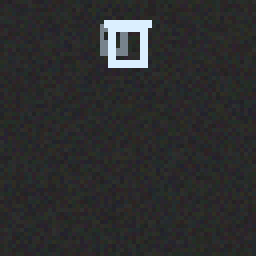
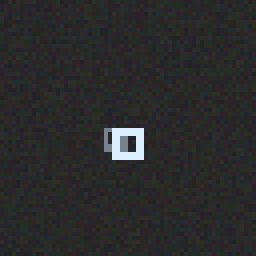
Anakin: camera-truth fixes — tilt sign (20deg UP per spec) + VFoV band training overlay (Day 129)
render.py trained the camera 20deg DOWN; vq1_spec.txt:325 + VQ1_READINESS 3.7 + Elodin's
harness all say 20deg UP — the trained view was 40deg off the official camera (recon-caught).
Sign flipped, self-check inverted (level gate now projects BELOW center), samples regenerated.

PATCH 5 (third_party, documented in PATCHES.md): anakin_band config overlay grays rows outside
[14:50] in the batched env, lockstep with dreamer_pilot.to_training_frame — trains through the
~59deg-VFoV competition camera (rehearsal: crop costs -68%, resample free).

launch_band_ft_detached.py: maneuver_band_ft fine-tune off best.pt (+256.28), both fixes,
4x500k steps, exam-condition eval. Running.

Changed region(s): [[0.375, 0.0625, 0.5938, 0.2812], [0.4062, 0.5, 0.5625, 0.625]]

diff --git a/Technical-Work/AIGrandPrix/anakin/sim/render.py b/Technical-Work/AIGrandPrix/anakin/sim/render.py
@@ -85,15 +85,18 @@ def _project(corners_world, cam_pos, cam_quat):
     qb = qconj[:, None, None, :].expand(N, corners_world.shape[1], 4, 4)
     rel_body = quat_rotate(qb, rel)            # [N,G,4,3] body frame (x fwd, y left, z up)
 
-    # camera down-tilt: rotate body points by -TILT about body-Y (left axis), i.e. R_y(-t).
-    # Verified by the __main__ visual test: a level gate dead-ahead then projects ABOVE
-    # image center, which is what a camera pitched 20deg DOWN must do (its optical axis
-    # points below a level-forward object, so that object sits high in the frame).
+    # camera UP-tilt: vq1_spec.txt:325 "The camera is tilted upwards by 20" (also
+    # VQ1_READINESS.md spec 3.7, and Elodin's harness: +20deg up — FPV convention).
+    # Day-129 fix: this previously rotated the OTHER way (down-tilt), i.e. the trained
+    # camera was 40deg off the official one. Verified by the __main__ visual test: a
+    # level gate dead-ahead now projects BELOW image center, which is what a camera
+    # pitched 20deg UP must do (its optical axis points above a level-forward object,
+    # so that object sits low in the frame).
     t = torch.tensor(TILT_DEG * torch.pi / 180.0, device=rel_body.device, dtype=rel_body.dtype)
     ct, st = torch.cos(t), torch.sin(t)
     bx, by, bz = rel_body.unbind(-1)
-    tx = ct * bx - st * bz
-    tz = st * bx + ct * bz
+    tx = ct * bx + st * bz
+    tz = -st * bx + ct * bz
     rel_tilt = torch.stack([tx, by, tz], dim=-1)
 
     # body(tilted) -> OpenCV optical: x_cam = -y, y_cam = -z, z_cam = x
@@ -211,13 +214,14 @@ if __name__ == "__main__":
     frame = render(s, gp, gf, cur)                                  # [1,64,64,3]
     print(f"frame shape={tuple(frame.shape)} dtype={frame.dtype} max={int(frame.max())}")
 
-    # gate-frame pixel stats + tilt-sign check (centroid of bright pixels should be ABOVE center)
+    # gate-frame pixel stats + tilt-sign check (centroid of bright pixels should be BELOW
+    # center: spec camera tilts UP 20deg, so a level gate sits low in the frame)
     bright_mask = (frame[0].float().mean(-1) > 150)
     ys, xs = torch.where(bright_mask)
     if ys.numel() > 0:
         cy_b = ys.float().mean().item()
         print(f"bright pixels={ys.numel()}  centroid_y={cy_b:.1f} (center={CY}); "
-              f"{'ABOVE center -> down-tilt sign OK' if cy_b < CY else 'BELOW -> FLIP TILT SIGN'}")
+              f"{'BELOW center -> up-tilt sign OK' if cy_b > CY else 'ABOVE -> FLIP TILT SIGN'}")
         # hollow-center check: the geometric center pixel should NOT be bright (it's the hole)
         print(f"center pixel bright? {bool(bright_mask[IMG//2, IMG//2])} (expect False — fly-through hole)")
     else:

diff --git a/Technical-Work/AIGrandPrix/anakin/launch_band_ft_detached.py b/Technical-Work/AIGrandPrix/anakin/launch_band_ft_detached.py
@@ -1,0 +1,59 @@
+"""DETACHED launch: exam-camera fine-tune off best.pt (+256.28, maneuver_scale_2).
+
+Two Day-129 camera-truth fixes trained in together:
+  1. VFoV band: the competition feed's ~59deg vertical FoV costs the 90deg-trained
+     pilot -68% return (translation_rehearsal). anakin_band overlay grays rows outside
+     [14:50] (lockstep with integration/dreamer_pilot.to_training_frame).
+  2. Tilt sign: vq1_spec.txt:325 says the camera tilts UP 20deg; render.py had trained
+     DOWN 20deg (40deg total error, found in Day-129 recon, fixed in sim/render.py).
+     The fine-tune relearns the official view direction off best.pt's warm dynamics.
+
+Seeds a FRESH logdir (maneuver_band_ft) with best.pt as latest.pt — the scale-2 run's
+artifacts are never touched; carry-forward's best-protection then guards the fine-tune
+itself. 4 x 500k = 2M steps; per-batch eval through the SAME masked obs, so the
+carry_state returns measure exam-condition performance directly.
+
+Run: .venv/Scripts/python.exe launch_band_ft_detached.py   (returns immediately)
+"""
+import os
+import shutil
+import subprocess
+import sys
+
+ANAKIN = os.path.dirname(os.path.abspath(__file__))
+PY = os.path.join(ANAKIN, ".venv", "Scripts", "python.exe")
+DREAMER = os.path.join(ANAKIN, "third_party", "dreamerv3-torch")
+SRC_BEST = os.path.join(DREAMER, "logdir", "maneuver_scale_2", "best.pt")
+LOGDIR = os.path.join(DREAMER, "logdir", "maneuver_band_ft")
+LOG = os.path.join(DREAMER, "logdir", "band_ft_orchestrator.log")
+
+os.makedirs(LOGDIR, exist_ok=True)
+latest = os.path.join(LOGDIR, "latest.pt")
+if not os.path.exists(latest):
+    if not os.path.exists(SRC_BEST):
+        sys.exit(f"missing seed checkpoint: {SRC_BEST}")
+    shutil.copy2(SRC_BEST, latest)
+    print(f"seeded {latest} from maneuver_scale_2/best.pt")
+else:
+    print(f"resuming existing {latest} (carry_state continues)")
+
+cmd = [
+    PY, "-u", os.path.join(ANAKIN, "carry_forward_train.py"),
+    "--logdir", LOGDIR,
+    "--config", "anakin_maneuver anakin_band",
+    "--envs", "256",
+    "--batch-steps", "500000",
+    "--num-batches", "4",
+    "--train-ratio", "64",
+    "--eval-every", "5000",
+]
+
+DETACHED_PROCESS = 0x00000008
+CREATE_NEW_PROCESS_GROUP = 0x00000200
+
+logf = open(LOG, "a")
+p = subprocess.Popen(
+    cmd, stdout=logf, stderr=subprocess.STDOUT, cwd=DREAMER,
+    creationflags=DETACHED_PROCESS | CREATE_NEW_PROCESS_GROUP, close_fds=True,
+)
+print(f"launched DETACHED band-ft orchestrator pid {p.pid} -> {LOG}")

diff --git a/Technical-Work/AIGrandPrix/anakin/carry_forward_train.py b/Technical-Work/AIGrandPrix/anakin/carry_forward_train.py
@@ -77,7 +77,7 @@ def run_batch(args, target_steps, logfile):
     """One fresh-process DreamerV3 batch: resume from latest.pt, train up to target_steps, exit."""
     cmd = [
         str(args.python), "-u", "dreamer.py",
-        "--configs", args.config,
+        "--configs", *args.config.split(),
         "--logdir", str(Path(args.logdir).resolve()),
         "--envs", str(args.envs),
         "--steps", str(int(target_steps)),

diff --git a/Technical-Work/AIGrandPrix/anakin/integration/PATCHES.md b/Technical-Work/AIGrandPrix/anakin/integration/PATCHES.md
@@ -96,3 +96,27 @@ releases promptly — no cache leak.
 and is prevented with it; (b) end-to-end — relaunch resumed batch 2; `dataset_size` now pinned at the 1M
 limit (erase active every step) with **0 KeyError/Traceback** over 2.5 min of 256-env stepping.
 Files: vendored `third_party/dreamerv3-torch/tools.py` (`erase_over_episodes` + the `simulate` call site).
+
+## PATCH 5 — `envs/anakin_batched.py` + `configs.yaml`: competition-camera VFoV band mask (Day 129)
+
+**Why:** `integration/translation_rehearsal.py` (paired ablation, 10 eps/condition) localized the
+sim-to-sim translation cost of the competition feed: vertical-FoV crop (we trained 90deg, the
+640x360 feed at fx=fy=320 sees ~59deg) costs **-68% return**; the resample round-trip is free
+(+17%, noise). Fix = train through the camera the pilot will actually have.
+
+**What:** `BatchedSimAdapter(vfov_mask=...)` — when set, `_band()` grays (BG 40) the rows outside
+[14:50] on both batched-obs production points (`_resolve_reset`, `_resolve_step`). Constants
+`BAND_TOP/BAND_BOT/BAND_GRAY` must stay in lockstep with `integration/dreamer_pilot.to_training_frame`
+(640x360/10 -> 36 content rows, centered). `make_batched` reads `config.anakin_vfov_mask`
+(default False — all pre-Day-129 configs unchanged). New `anakin_band` OVERLAY block in
+`configs.yaml` sets only `anakin_vfov_mask: True`; pass `--configs anakin_maneuver anakin_band`
+(carry_forward_train.py now splits its `--config` string to support overlays).
+
+**Verified:** config overlay merges (anakin_vfov_mask=True); 2-env batched reset+step obs both
+show gray rows [0:14)+[50:64) with live content band.
+
+**Companion sim fix (not third_party, but same finding-cluster):** `sim/render.py` camera tilt was
+20deg DOWN; `docs/vq1_spec.txt:325` + VQ1_READINESS 3.7 + Elodin's harness all say 20deg **UP**
+(the trained camera was 40deg off the official one). Rotation sign flipped; self-check now asserts
+a level dead-ahead gate projects BELOW center. The `maneuver_band_ft` fine-tune trains both fixes
+together off `maneuver_scale_2/best.pt` (+256.28).

diff --git a/Technical-Work/AIGrandPrix/VQ1_READINESS.md b/Technical-Work/AIGrandPrix/VQ1_READINESS.md
@@ -1,4 +1,21 @@
-# VQ1 Readiness Assessment — April 9, 2026 (Updated 2026-05-09 Day 99 with VADR-TS-002 Issue 00.02)
+# VQ1 Readiness Assessment — April 9, 2026 (Updated 2026-05-09 Day 99 with VADR-TS-002 Issue 00.02; Day-129 camera-truth addendum below)
+
+## 2026-06-09 Day 129 Update — Adapter built; two camera-truth defects found and in repair
+
+- **DreamerV3 competition adapter EXISTS** (`anakin/integration/dreamer_pilot.py`): best.pt behind
+  act(frame), strict load, 4.0 ms/step. Closed-loop rehearsal harness: `translation_rehearsal.py`.
+- **Defect 1 — vertical FoV (rehearsal-measured):** policy trained square 90° VFoV; the 640×360 feed
+  sees ~59°. Paired ablation: **-68% return from the crop alone**; resampling free. Fix: `anakin_band`
+  training overlay (PATCHES.md PATCH 5).
+- **Defect 2 — tilt sign (recon-caught, worse):** `sim/render.py` trained the camera 20° DOWN; spec
+  §3.7 + `vq1_spec.txt:325` + Elodin's harness say 20° **UP** — the trained camera was 40° off the
+  official one. render.py fixed Day 129; the old item-4 "tilt awareness" concern was real and
+  understated.
+- **In flight:** `maneuver_band_ft` fine-tune (both fixes, off best.pt +256.28, 4×500k steps,
+  exam-condition eval). Next: re-run translation rehearsal off the fine-tuned checkpoint, then the
+  official-sim end-to-end test (the item-56 submission-format unknown still needs the portal).
+- **Public timeline (recon 6/09):** virtual qualification May–July, Round-2 cutoff ~end July,
+  physical qualifier Sept (SoCal), final Nov (Ohio). Exact VQ1/VQ2 submission dates: check team portal/email.
 
 ## 2026-05-09 Day 99 Update — VQ1 Spec Dropped
 
